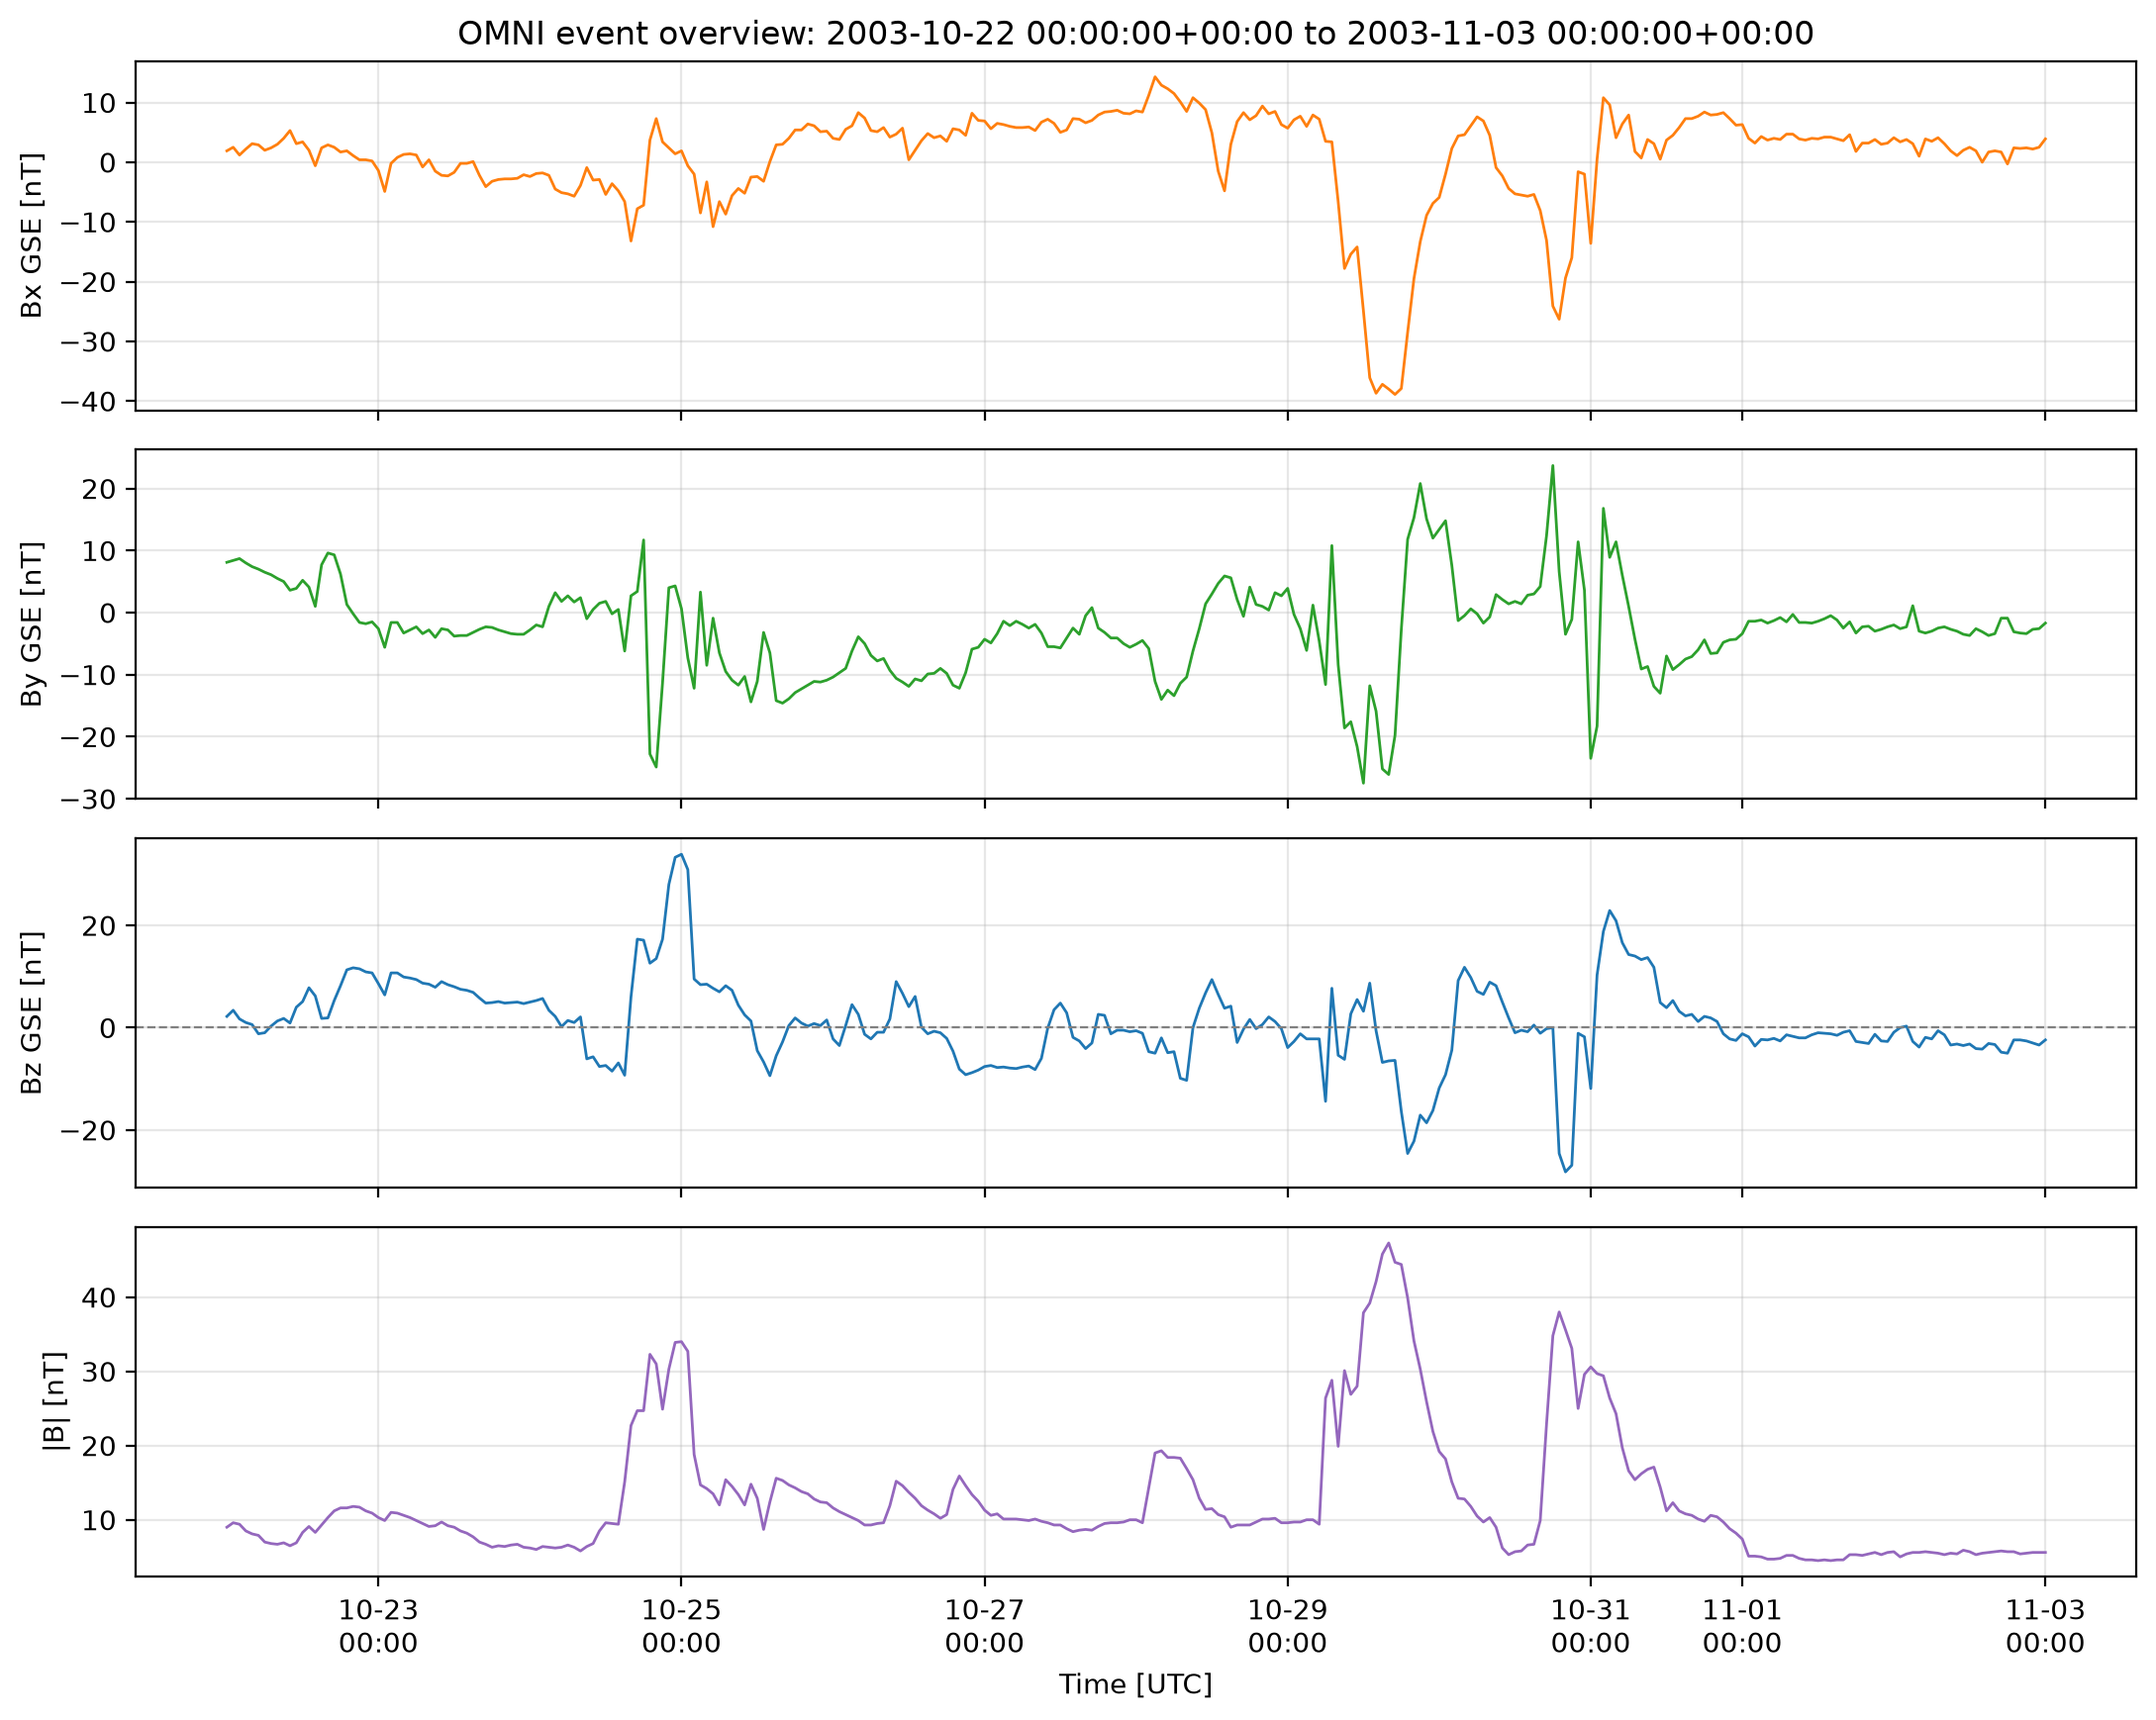
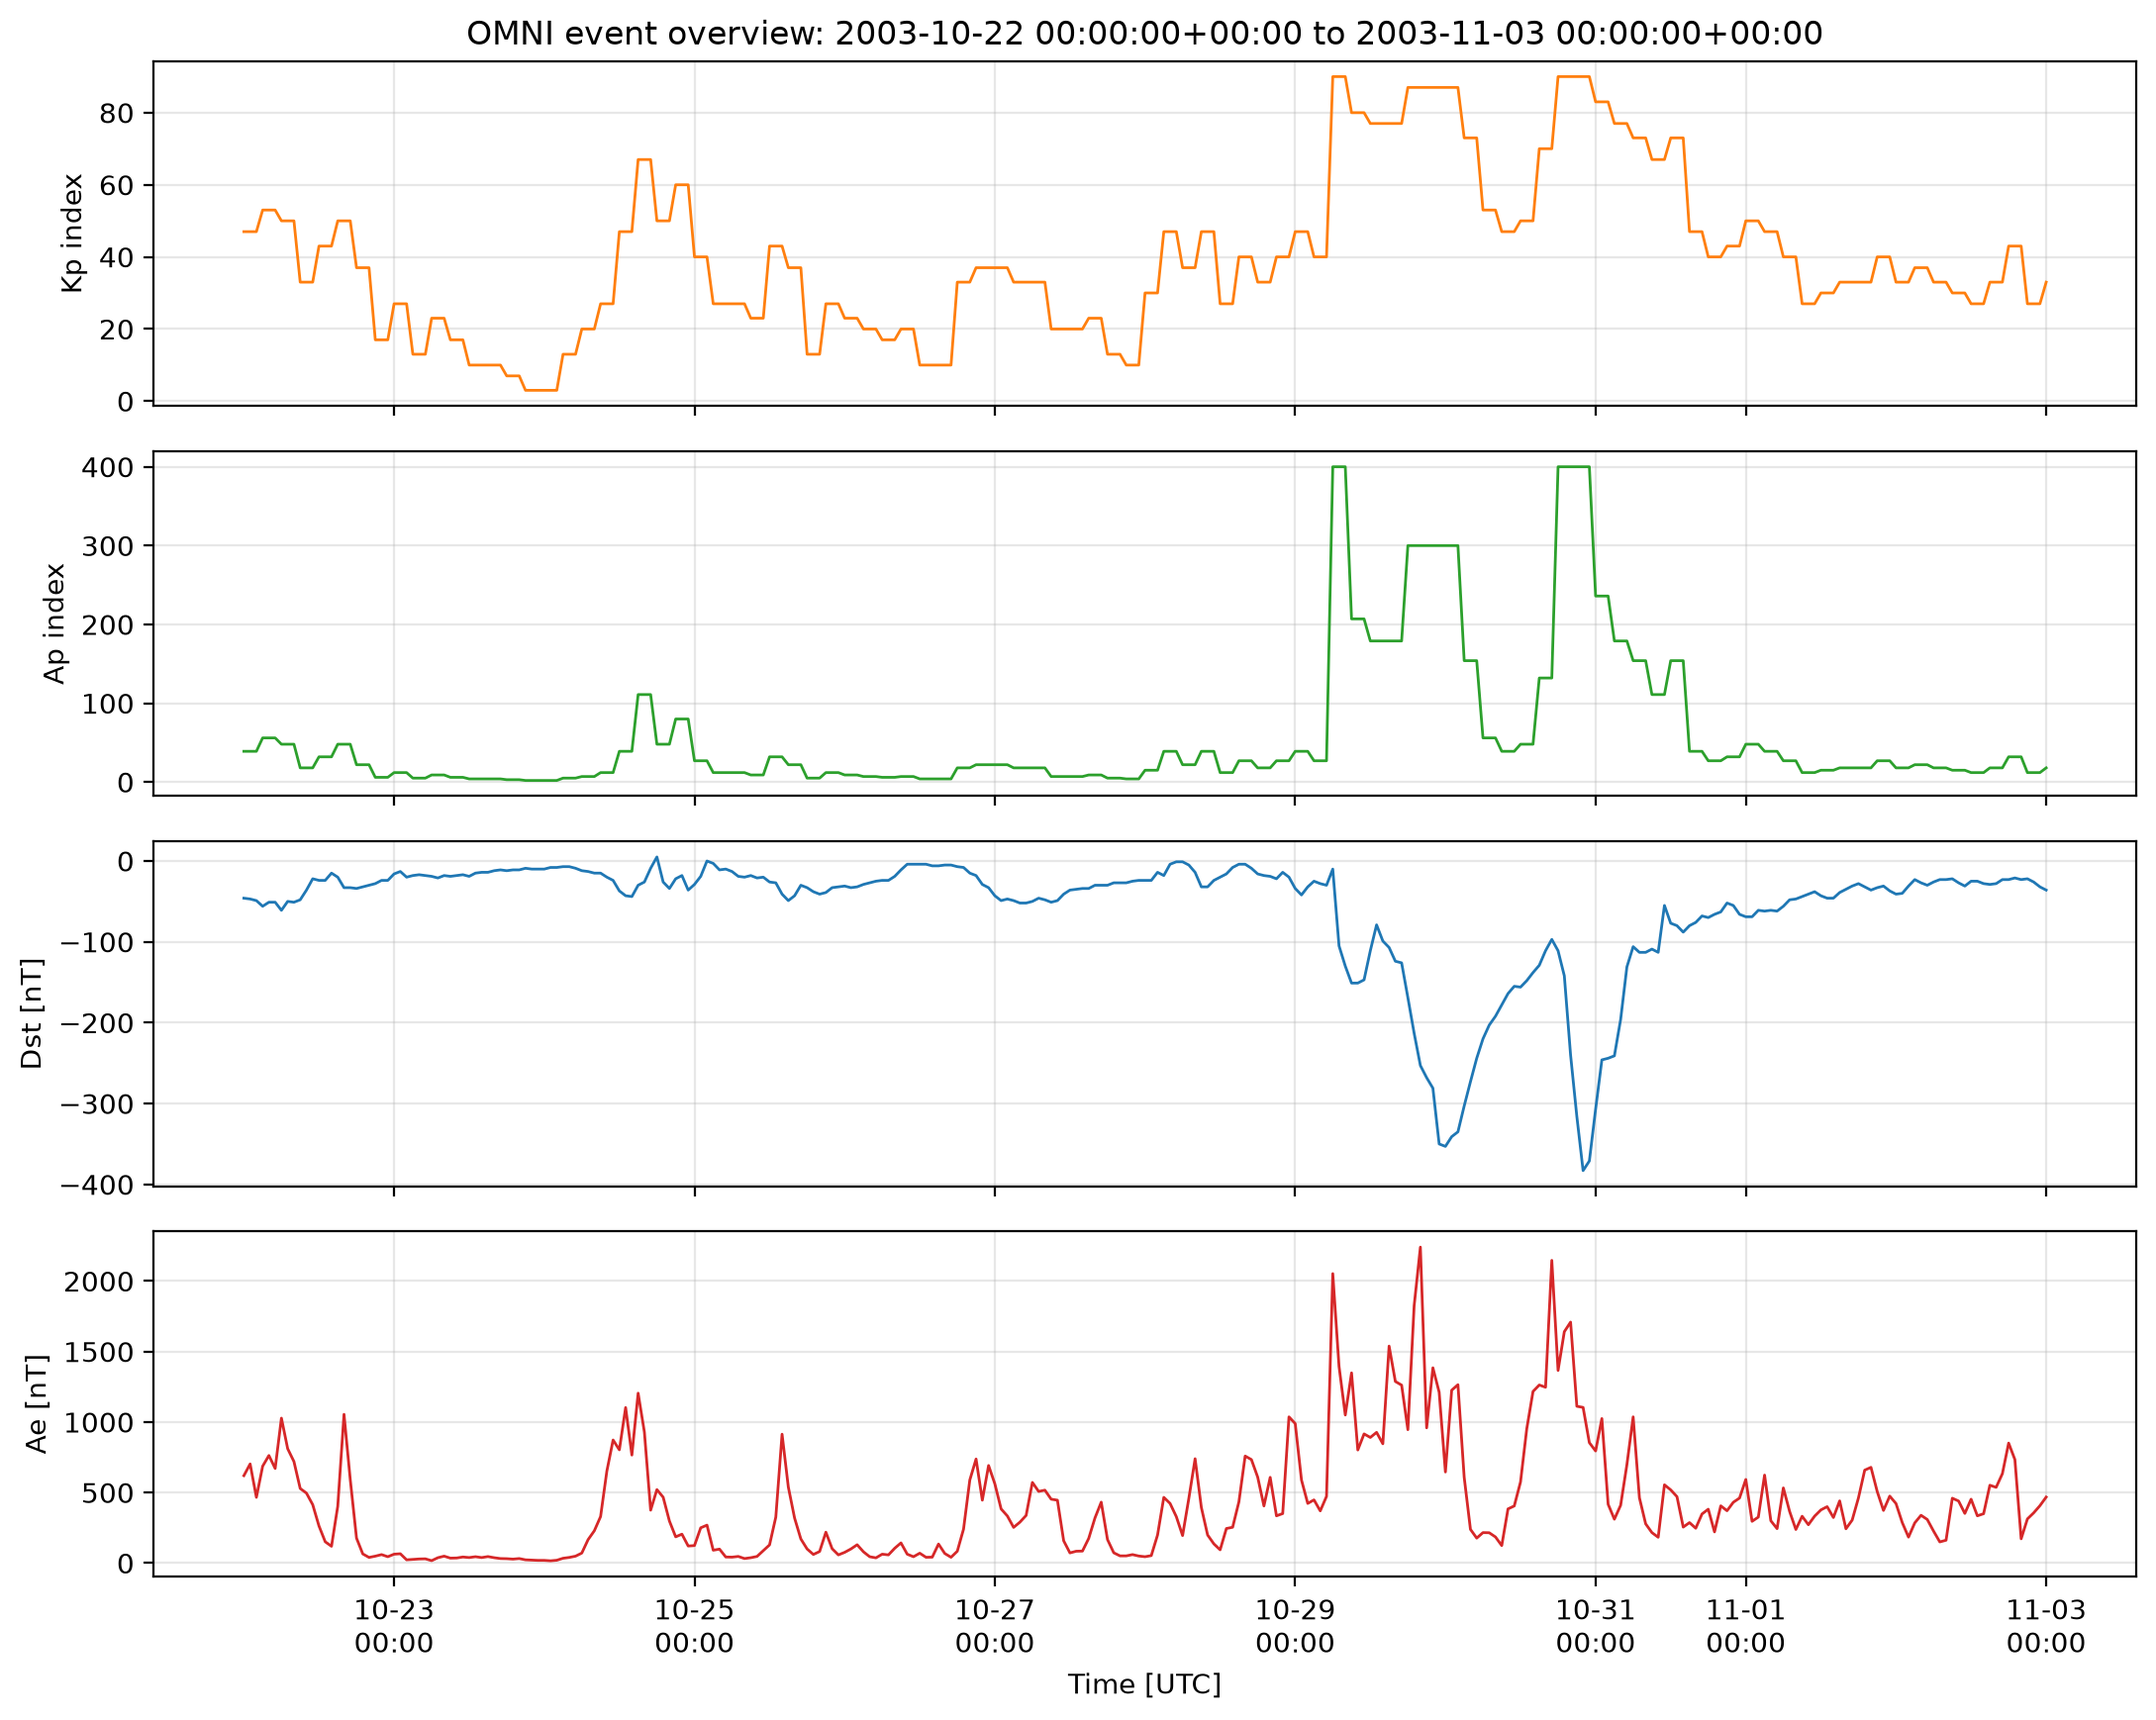
Added Kp ap indices

diff --git a/omni_testing.py b/omni_testing.py
@@ -47,7 +47,11 @@ REQUESTED_VARS = [
     'BX_GSE1800',
     'BY_GSE1800',
     'BZ_GSE1800',
-    'ABS_B1800'
+    'ABS_B1800',
+    'KP1800',
+    'AP_INDEX1800',
+    'DST1800',
+    'AE1800'
   #  'flow_speed',
  #   'Vx',
  #   'Vy',
@@ -209,10 +213,11 @@ def fetch_omni_dataframe(start: str, end: str, dataset: str, variables: list[str
 def plot_omni_event(df: pd.DataFrame, output_path: str) -> None:
     """Create and save a multi-panel OMNI event plot."""
     panel_specs = [
-        ('BX_GSE1800', 'Bx GSE [nT]', 'tab:orange'),
-        ('BY_GSE1800', 'By GSE [nT]', 'tab:green'),
-        ('BZ_GSE1800', 'Bz GSE [nT]', 'tab:blue'),
-        ('ABS_B1800', '|B| [nT]', 'tab:purple'),
+        ('KP1800', 'Kp index', 'tab:orange'),
+        ('AP_INDEX1800', 'Ap index', 'tab:green'),
+        ('DST1800', 'Dst [nT]', 'tab:blue'),
+        ('AE1800', 'Ae [nT]', 'tab:red'),
+                                           
         
     #    ('flow_speed', 'Flow speed [km/s]', 'tab:red'),
     #    ('SYM_H', 'SYM-H [nT]', 'black'),
@@ -284,6 +289,32 @@ def plot_B_field(df: pd.DataFrame, output_path: str) -> None:
     print(f'\nB field figure saved to: {Path(output_path).resolve()}')
     print(df.index)
 
+def plot_disturbance(df: pd.DataFrame, output_path: str) -> None:
+    """Create a single plot for geomagnetic disturbance indices"""
+    fig, ax1 = plt.subplots(figsize=(10, 5))
+
+    ax1.set_xlabel('Date [UTC]')
+    ax1.set_ylabel('Index Value')
+    ax1.plot(df.index, df[KP1800], label = 'Kp index', color = 'black')
+    ax1.tick_params(axis = 'y', labelcolor = 'black')
+
+    ax2 = ax1.twinx()  # Plot Ap index on the same x-axis but different y-axis, Kp is the logarithmic version of Ap index
+    ax2.set_ylabel('ap [nT]', color = 'red')
+
+    ax1.xaxis.set_major_locator(mdates.DayLocator(interval=1))
+    ax1.xaxis.set_major_formatter(mdates.DateFormatter('%d'))
+
+
+    plt.title(f'Geomagnetic Disturbance Indices: {df.index.min()} to {df.index.max()}')
+    plt.xlabel('Date [UTC]')
+    plt.ylabel('Index Value')
+    plt.legend()
+    plt.grid(True, alpha=0.3)
+    plt.tight_layout()
+    plt.savefig(output_path, dpi=200, bbox_inches='tight')
+    plt.show()
+
+    print(f'\nDisturbance indices figure saved to: {Path(output_path).resolve()}')
 # =========================
 # Main script
 # =========================
@@ -300,7 +331,8 @@ def main() -> None:
 
     plot_omni_event(df, OUTPUT_FIG)
     plot_B_field(df, 'omni_B_field_plot.png')
-
+    plot_disturbance(df, 'omni_disturbance_plot.png')
+    
 
 if __name__ == '__main__':
     main()
